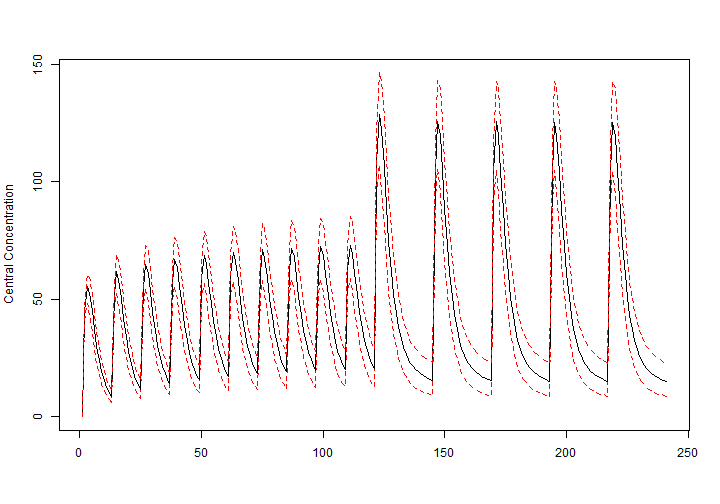
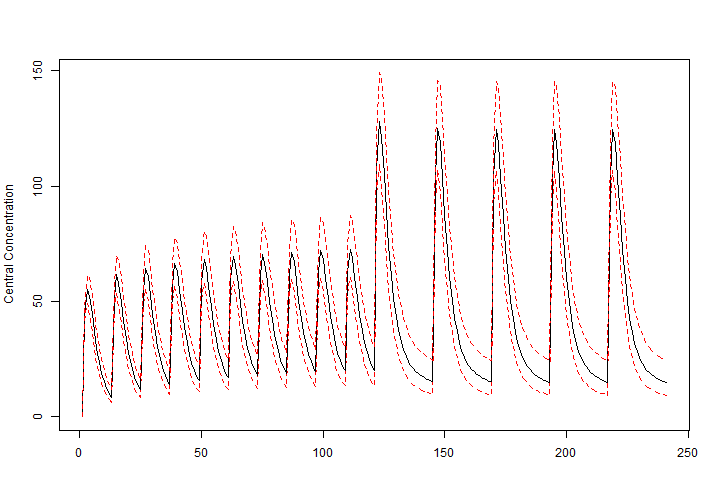
Functional inits

diff --git a/src/ode.h b/src/ode.h
@@ -1,2 +1,2 @@
-#define __HD_ODE__ "#include <R.h>\n#include <Rinternals.h>\n#include <Rmath.h>\n#include <R_ext/Rdynload.h>\n#define JAC_Rprintf Rprintf\n#define JAC0_Rprintf if (_jac_counter_val() == 0) Rprintf\n#define ODE_Rprintf Rprintf\n#define ODE0_Rprintf if (_dadt_counter_val() == 0) Rprintf\n#define LHS_Rprintf Rprintf\n#define max(a,b) (((a)>(b))?(a):(b))\n#define min(a,b) (((a)<(b))?(a):(b))\n// Types for par pointers.r\ntypedef void (*RxODE_update_par_ptr)(double t);\ntypedef double (*RxODE_transit3)(double t, double n, double mtt);\ntypedef double (*RxODE_fn) (double x);\ntypedef double (*RxODE_fn2) (double x, double y);\ntypedef double (*RxODE_transit4)(double t, double n, double mtt, double bio);\ntypedef double (*RxODE_vec) (int val);\ntypedef long (*RxODE_cnt) ();\ntypedef void (*RxODE_inc) ();\ntypedef double (*RxODE_val) ();\ntypedef SEXP (*RxODE_ode_solver) (SEXP sexp_theta, SEXP sexp_inits, SEXP sexp_lhs, SEXP sexp_time, SEXP sexp_evid,SEXP sexp_dose, SEXP sexp_pcov, SEXP sexp_cov, SEXP sexp_locf, SEXP sexp_atol, SEXP sexp_rtol, SEXP sexp_hmin, SEXP sexp_hmax, SEXP sexp_h0, SEXP sexp_mxordn, SEXP sexp_mxords, SEXP sexp_mx,SEXP sexp_stiff, SEXP sexp_transit_abs, SEXP sexp_object, SEXP sexp_extra_args);\ntypedef void (*RxODE_assign_fn_pointers)(void (*fun_dydt)(unsigned int, double, double *, double *),void (*fun_calc_lhs)(double, double *, double *),void (*fun_calc_jac)(unsigned int, double, double *, double *, unsigned int),int fun_jt,int fun_mf, int fun_debug);\n\ntypedef void (*RxODE_ode_solver_old_c)(int *neq,double *theta,double *time,int *evid,int *ntime,double *inits,double *dose,double *ret,double *atol,double *rtol,int *stiff,int *transit_abs,int *nlhs,double *lhs,int *rc);\ntypedef void (*RxODE_ode_solver_0_6_c)(int *neq,double *theta,double *time,int *evid,int *ntime,double *inits,double *dose,double *ret,double *atol,double *rtol,int *stiff,int *transit_abs,int *nlhs,double *lhs,int *rc,double hmin, double hmax,double h0,int mxordn,int mxords,int mxstep);\n// Give par pointers\nRxODE_vec _par_ptr, _InfusionRate;\nRxODE_update_par_ptr _update_par_ptr;\nRxODE_cnt _dadt_counter_val, _jac_counter_val;\nRxODE_inc _dadt_counter_inc, _jac_counter_inc;\nRxODE_val podo, tlast;\nRxODE_transit4 _transit4;\nRxODE_transit3 _transit3;\nRxODE_fn _safe_log, _safe_zero, factorial, _as_zero;\nRxODE_assign_fn_pointers _assign_fn_pointers;\nRxODE_ode_solver_old_c _old_c;\nRxODE_ode_solver_0_6_c _c_0_6;\n\n"
-#define __HD_SOLVE__ "void __ODE_SOLVER__(\n                    int *neq,\n                    double *theta,      //order:\n                    double *time,\n                    int *evid,\n                    int *ntime,\n                    double *inits,\n                    double *dose,\n                    double *ret,\n                    double *atol,\n                    double *rtol,\n                    int *stiff,\n                    int *transit_abs,\n                    int *nlhs,\n                    double *lhs,\n                    int *rc\n                    ){\n  // Backward compatible ode solver for 0.5* C interface\n  __ODE_SOLVER_PTR__();\n  _old_c(neq, theta, time, evid, ntime, inits, dose, ret, atol, rtol, stiff, transit_abs, nlhs, lhs, rc);\n}\n\nvoid __ODE_SOLVER_0_6__(int *neq,\n                        double *theta,  //order:\n                        double *time,\n                        int *evid,\n                        int *ntime,\n                        double *inits,\n                        double *dose,\n                        double *ret,\n                        double *atol,\n                        double *rtol,\n                        int *stiff,\n                        int *transit_abs,\n                        int *nlhs,\n                        double *lhs,\n                        int *rc,\n                        double hmin,\n                        double hmax,\n                        double h0,\n                        int mxordn,\n                        int mxords,\n                        int mxstep) {\n  // Backward compatible ode solver for 0.5* C interface\n  __ODE_SOLVER_PTR__();\n  _c_0_6(neq, theta, time, evid, ntime, inits, dose, ret, atol, rtol, stiff, transit_abs, nlhs, lhs, rc,\n	hmin, hmax, h0, mxordn, mxords, mxstep);\n}\n\nextern void __ODE_SOLVER_PTR__  (){\n  _assign_fn_pointers(__DYDT__ , __CALC_LHS__ , __CALC_JAC__, __JT__ , __MF__,\n#ifdef __DEBUG__\n                      1\n#else\n                      0\n#endif\n                      );\n}\n\nextern SEXP __ODE_SOLVER_SEXP__ (// Parameters\n                                 SEXP sexp_theta,\n                                 SEXP sexp_inits,\n                                 SEXP sexp_lhs,\n				 // Events\n				 SEXP sexp_time,\n				 SEXP sexp_evid,\n				 SEXP sexp_dose,\n				 // Covariates\n				 SEXP sexp_pcov,\n				 SEXP sexp_cov,\n				 SEXP sexp_locf,\n				 // Solver Options\n				 SEXP sexp_atol,\n				 SEXP sexp_rtol,\n				 SEXP sexp_hmin,\n				 SEXP sexp_hmax,\n				 SEXP sexp_h0,\n				 SEXP sexp_mxordn,\n				 SEXP sexp_mxords,\n				 SEXP sexp_mx,\n				 SEXP sexp_stiff,\n				 SEXP sexp_transit_abs,\n				 // Object Creation\n				 SEXP sexp_object,\n				 SEXP sexp_extra_args){\n  RxODE_ode_solver ode_solver=(RxODE_ode_solver) R_GetCCallable(\"RxODE\",\"RxODE_ode_solver\");\n  __ODE_SOLVER_PTR__();\n  ode_solver(sexp_theta,sexp_inits,sexp_lhs,sexp_time,sexp_evid,sexp_dose,sexp_pcov,sexp_cov,sexp_locf,sexp_atol,\n	     sexp_rtol,sexp_hmin,sexp_hmax,sexp_h0,sexp_mxordn,sexp_mxords,sexp_mx,sexp_stiff,sexp_transit_abs,\n	     sexp_object,sexp_extra_args);\n}\n\n//Initilize the dll to match RxODE's calls\nvoid __R_INIT__ (DllInfo *info){\n  // Get the RxODE calling interfaces\n  _InfusionRate   = (RxODE_vec) R_GetCCallable(\"RxODE\",\"RxODE_InfusionRate\");\n  _update_par_ptr = (RxODE_update_par_ptr) R_GetCCallable(\"RxODE\",\"RxODE_update_par_ptr\");\n  _par_ptr = (RxODE_vec) R_GetCCallable(\"RxODE\",\"RxODE_par_ptr\");\n  _dadt_counter_val = (RxODE_cnt) R_GetCCallable(\"RxODE\",\"RxODE_dadt_counter_val\");\n  _jac_counter_val  = (RxODE_cnt) R_GetCCallable(\"RxODE\",\"RxODE_jac_counter_val\");\n  _dadt_counter_inc = (RxODE_inc) R_GetCCallable(\"RxODE\",\"RxODE_dadt_counter_inc\");\n  _jac_counter_inc  = (RxODE_inc) R_GetCCallable(\"RxODE\",\"RxODE_jac_counter_inc\");\n  podo  = (RxODE_val) R_GetCCallable(\"RxODE\",\"RxODE_podo\");\n  tlast = (RxODE_val) R_GetCCallable(\"RxODE\",\"RxODE_tlast\");\n  factorial=(RxODE_fn) R_GetCCallable(\"RxODE\",\"RxODE_factorial\");\n  _transit3 = (RxODE_transit3) R_GetCCallable(\"RxODE\",\"RxODE_transit3\");\n  _transit4 = (RxODE_transit4) R_GetCCallable(\"RxODE\",\"RxODE_transit4\");\n  _safe_log =(RxODE_fn) R_GetCCallable(\"RxODE\",\"RxODE_safe_log\");\n  _safe_zero =(RxODE_fn) R_GetCCallable(\"RxODE\",\"RxODE_safe_zero\");\n  _as_zero =(RxODE_fn) R_GetCCallable(\"RxODE\",\"RxODE_as_zero\");\n  _assign_fn_pointers=(RxODE_assign_fn_pointers) R_GetCCallable(\"RxODE\",\"RxODE_assign_fn_pointers\");\n  _old_c = (RxODE_ode_solver_old_c) R_GetCCallable(\"RxODE\",\"RxODE_ode_solver_old_c\");\n  _c_0_6 = (RxODE_ode_solver_0_6_c)R_GetCCallable(\"RxODE\",\"RxODE_ode_solver_0_6_c\");\n  // Register the outside functions\n  R_RegisterCCallable(__LIB_STR__,__ODE_SOLVER_STR__,       (DL_FUNC) __ODE_SOLVER__);\n  R_RegisterCCallable(__LIB_STR__,__ODE_SOLVER_SEXP_STR__,  (DL_FUNC) __ODE_SOLVER_SEXP__);\n  R_RegisterCCallable(__LIB_STR__,__ODE_SOLVER_0_6_STR__,   (DL_FUNC) __ODE_SOLVER_0_6__);\n  R_RegisterCCallable(__LIB_STR__,__ODE_SOLVER_PTR_STR__,   (DL_FUNC) __ODE_SOLVER_PTR__);\n  // Register the function pointers so if someone directly calls the\n  // ode solvers directly, they use the last loaded RxODE model.\n  __ODE_SOLVER_PTR__();\n}\n"
+#define __HD_ODE__ "#include <R.h>\n#include <Rinternals.h>\n#include <Rmath.h>\n#include <R_ext/Rdynload.h>\n#define JAC_Rprintf Rprintf\n#define JAC0_Rprintf if (_jac_counter_val() == 0) Rprintf\n#define ODE_Rprintf Rprintf\n#define ODE0_Rprintf if (_dadt_counter_val() == 0) Rprintf\n#define LHS_Rprintf Rprintf\n#define max(a,b) (((a)>(b))?(a):(b))\n#define min(a,b) (((a)<(b))?(a):(b))\n// Types for par pointers.r\ntypedef void (*RxODE_update_par_ptr)(double t);\ntypedef double (*RxODE_transit3)(double t, double n, double mtt);\ntypedef double (*RxODE_fn) (double x);\ntypedef double (*RxODE_fn2) (double x, double y);\ntypedef double (*RxODE_transit4)(double t, double n, double mtt, double bio);\ntypedef double (*RxODE_vec) (int val);\ntypedef long (*RxODE_cnt) ();\ntypedef void (*RxODE_inc) ();\ntypedef double (*RxODE_val) ();\ntypedef SEXP (*RxODE_ode_solver) (SEXP sexp_theta, SEXP sexp_inits, SEXP sexp_lhs, SEXP sexp_time, SEXP sexp_evid,SEXP sexp_dose, SEXP sexp_pcov, SEXP sexp_cov, SEXP sexp_locf, SEXP sexp_atol, SEXP sexp_rtol, SEXP sexp_hmin, SEXP sexp_hmax, SEXP sexp_h0, SEXP sexp_mxordn, SEXP sexp_mxords, SEXP sexp_mx,SEXP sexp_stiff, SEXP sexp_transit_abs, SEXP sexp_object, SEXP sexp_extra_args);\ntypedef void (*RxODE_assign_fn_pointers)(void (*fun_dydt)(unsigned int, double, double *, double *),void (*fun_calc_lhs)(double, double *, double *),void (*fun_calc_jac)(unsigned int, double, double *, double *, unsigned int),void (*fun_update_inis)(SEXP _ini_sexp),int fun_jt,int fun_mf, int fun_debug);\n\ntypedef void (*RxODE_ode_solver_old_c)(int *neq,double *theta,double *time,int *evid,int *ntime,double *inits,double *dose,double *ret,double *atol,double *rtol,int *stiff,int *transit_abs,int *nlhs,double *lhs,int *rc);\ntypedef void (*RxODE_ode_solver_0_6_c)(int *neq,double *theta,double *time,int *evid,int *ntime,double *inits,double *dose,double *ret,double *atol,double *rtol,int *stiff,int *transit_abs,int *nlhs,double *lhs,int *rc,double hmin, double hmax,double h0,int mxordn,int mxords,int mxstep);\n// Give par pointers\nRxODE_vec _par_ptr, _InfusionRate;\nRxODE_update_par_ptr _update_par_ptr;\nRxODE_cnt _dadt_counter_val, _jac_counter_val;\nRxODE_inc _dadt_counter_inc, _jac_counter_inc;\nRxODE_val podo, tlast;\nRxODE_transit4 _transit4;\nRxODE_transit3 _transit3;\nRxODE_fn _safe_log, _safe_zero, factorial, _as_zero;\nRxODE_assign_fn_pointers _assign_fn_pointers;\nRxODE_ode_solver_old_c _old_c;\nRxODE_ode_solver_0_6_c _c_0_6;\n\n"
+#define __HD_SOLVE__ "void __ODE_SOLVER__(\n                    int *neq,\n                    double *theta,      //order:\n                    double *time,\n                    int *evid,\n                    int *ntime,\n                    double *inits,\n                    double *dose,\n                    double *ret,\n                    double *atol,\n                    double *rtol,\n                    int *stiff,\n                    int *transit_abs,\n                    int *nlhs,\n                    double *lhs,\n                    int *rc\n                    ){\n  // Backward compatible ode solver for 0.5* C interface\n  __ODE_SOLVER_PTR__();\n  _old_c(neq, theta, time, evid, ntime, inits, dose, ret, atol, rtol, stiff, transit_abs, nlhs, lhs, rc);\n}\n\nvoid __ODE_SOLVER_0_6__(int *neq,\n                        double *theta,  //order:\n                        double *time,\n                        int *evid,\n                        int *ntime,\n                        double *inits,\n                        double *dose,\n                        double *ret,\n                        double *atol,\n                        double *rtol,\n                        int *stiff,\n                        int *transit_abs,\n                        int *nlhs,\n                        double *lhs,\n                        int *rc,\n                        double hmin,\n                        double hmax,\n                        double h0,\n                        int mxordn,\n                        int mxords,\n                        int mxstep) {\n  // Backward compatible ode solver for 0.5* C interface\n  __ODE_SOLVER_PTR__();\n  _c_0_6(neq, theta, time, evid, ntime, inits, dose, ret, atol, rtol, stiff, transit_abs, nlhs, lhs, rc,\n	hmin, hmax, h0, mxordn, mxords, mxstep);\n}\n\nextern void __ODE_SOLVER_PTR__  (){\n  _assign_fn_pointers(__DYDT__ , __CALC_LHS__ , __CALC_JAC__, __INIS__, __JT__ , __MF__,\n#ifdef __DEBUG__\n                      1\n#else\n                      0\n#endif\n                      );\n}\n\nextern SEXP __ODE_SOLVER_SEXP__ (// Parameters\n                                 SEXP sexp_theta,\n                                 SEXP sexp_inits,\n                                 SEXP sexp_lhs,\n				 // Events\n				 SEXP sexp_time,\n				 SEXP sexp_evid,\n				 SEXP sexp_dose,\n				 // Covariates\n				 SEXP sexp_pcov,\n				 SEXP sexp_cov,\n				 SEXP sexp_locf,\n				 // Solver Options\n				 SEXP sexp_atol,\n				 SEXP sexp_rtol,\n				 SEXP sexp_hmin,\n				 SEXP sexp_hmax,\n				 SEXP sexp_h0,\n				 SEXP sexp_mxordn,\n				 SEXP sexp_mxords,\n				 SEXP sexp_mx,\n				 SEXP sexp_stiff,\n				 SEXP sexp_transit_abs,\n				 // Object Creation\n				 SEXP sexp_object,\n				 SEXP sexp_extra_args){\n  RxODE_ode_solver ode_solver=(RxODE_ode_solver) R_GetCCallable(\"RxODE\",\"RxODE_ode_solver\");\n  __ODE_SOLVER_PTR__();\n  ode_solver(sexp_theta,sexp_inits,sexp_lhs,sexp_time,sexp_evid,sexp_dose,sexp_pcov,sexp_cov,sexp_locf,sexp_atol,\n	     sexp_rtol,sexp_hmin,sexp_hmax,sexp_h0,sexp_mxordn,sexp_mxords,sexp_mx,sexp_stiff,sexp_transit_abs,\n	     sexp_object,sexp_extra_args);\n}\n\n//Initilize the dll to match RxODE's calls\nvoid __R_INIT__ (DllInfo *info){\n  // Get the RxODE calling interfaces\n  _InfusionRate   = (RxODE_vec) R_GetCCallable(\"RxODE\",\"RxODE_InfusionRate\");\n  _update_par_ptr = (RxODE_update_par_ptr) R_GetCCallable(\"RxODE\",\"RxODE_update_par_ptr\");\n  _par_ptr = (RxODE_vec) R_GetCCallable(\"RxODE\",\"RxODE_par_ptr\");\n  _dadt_counter_val = (RxODE_cnt) R_GetCCallable(\"RxODE\",\"RxODE_dadt_counter_val\");\n  _jac_counter_val  = (RxODE_cnt) R_GetCCallable(\"RxODE\",\"RxODE_jac_counter_val\");\n  _dadt_counter_inc = (RxODE_inc) R_GetCCallable(\"RxODE\",\"RxODE_dadt_counter_inc\");\n  _jac_counter_inc  = (RxODE_inc) R_GetCCallable(\"RxODE\",\"RxODE_jac_counter_inc\");\n  podo  = (RxODE_val) R_GetCCallable(\"RxODE\",\"RxODE_podo\");\n  tlast = (RxODE_val) R_GetCCallable(\"RxODE\",\"RxODE_tlast\");\n  factorial=(RxODE_fn) R_GetCCallable(\"RxODE\",\"RxODE_factorial\");\n  _transit3 = (RxODE_transit3) R_GetCCallable(\"RxODE\",\"RxODE_transit3\");\n  _transit4 = (RxODE_transit4) R_GetCCallable(\"RxODE\",\"RxODE_transit4\");\n  _safe_log =(RxODE_fn) R_GetCCallable(\"RxODE\",\"RxODE_safe_log\");\n  _safe_zero =(RxODE_fn) R_GetCCallable(\"RxODE\",\"RxODE_safe_zero\");\n  _as_zero =(RxODE_fn) R_GetCCallable(\"RxODE\",\"RxODE_as_zero\");\n  _assign_fn_pointers=(RxODE_assign_fn_pointers) R_GetCCallable(\"RxODE\",\"RxODE_assign_fn_pointers\");\n  _old_c = (RxODE_ode_solver_old_c) R_GetCCallable(\"RxODE\",\"RxODE_ode_solver_old_c\");\n  _c_0_6 = (RxODE_ode_solver_0_6_c)R_GetCCallable(\"RxODE\",\"RxODE_ode_solver_0_6_c\");\n  // Register the outside functions\n  R_RegisterCCallable(__LIB_STR__,__ODE_SOLVER_STR__,       (DL_FUNC) __ODE_SOLVER__);\n  R_RegisterCCallable(__LIB_STR__,__ODE_SOLVER_SEXP_STR__,  (DL_FUNC) __ODE_SOLVER_SEXP__);\n  R_RegisterCCallable(__LIB_STR__,__ODE_SOLVER_0_6_STR__,   (DL_FUNC) __ODE_SOLVER_0_6__);\n  R_RegisterCCallable(__LIB_STR__,__ODE_SOLVER_PTR_STR__,   (DL_FUNC) __ODE_SOLVER_PTR__);\n  // Register the function pointers so if someone directly calls the\n  // ode solvers directly, they use the last loaded RxODE model.\n  __ODE_SOLVER_PTR__();\n}\n"

diff --git a/src/tran.c b/src/tran.c
@@ -215,6 +215,7 @@ typedef struct symtab {
   int ini[MXSYM];        /* initial variable assignment =2 if there are two assignments */
   int ini0[MXSYM];        /* state initial variable assignment =2 if there are two assignments */
   int di[MXDER];        /* ith of state vars */
+  int fdi[MXDER];        /* Functional initilization of state variable */
   int nv;                       /* nbr of symbols */
   int ix;                       /* ith of curr symbol */
   int id;                       /* ith of curr symbol */
@@ -224,6 +225,7 @@ typedef struct symtab {
   int pos_de;
   int ini_i; // #ini
   int statei; // # states
+  int fdn; // # conditional states
   int sensi;
   int li; // # lhs
   int pi; // # param
@@ -1034,7 +1036,7 @@ void prnt_vars(int scenario, FILE *outpt, int lhs, const char *pre_str, const ch
 }
 
 void print_aux_info(FILE *outpt, char *model, char *orig_model){
-  int i, j, k, islhs,pi = 0,li = 0, o=0, o2=0, statei = 0, ini_i = 0, sensi=0,
+  int i, j, k, islhs,pi = 0,li = 0, o=0, o2=0, statei = 0, ini_i = 0, sensi=0, fdi=0,
     in_str=0;
   char *s2;
   char sLine[MXLEN+1];
@@ -1071,6 +1073,10 @@ void print_aux_info(FILE *outpt, char *model, char *orig_model){
     } else {
       sprintf(s_aux_info+o, "\tSET_STRING_ELT(state,%d,mkChar(\"%s\"));\n", statei++, buf);
     }
+    if (tb.fdi[i]){
+      o = strlen(s_aux_info);
+      sprintf(s_aux_info+o, "\tSET_STRING_ELT(fn_ini,%d,mkChar(\"%s\"));\n", fdi++, buf);
+    }
     o = strlen(s_aux_info);
   }
   for (i=0; i<tb.ndfdy; i++) {                     /* name state vars */
@@ -1094,12 +1100,13 @@ void print_aux_info(FILE *outpt, char *model, char *orig_model){
     o = strlen(s_aux_info);
   }
   fprintf(outpt,"extern SEXP %smodel_vars(){\n",model_prefix);
-  fprintf(outpt,"\tSEXP lst    = PROTECT(allocVector(VECSXP, 10));\n");
-  fprintf(outpt,"\tSEXP names  = PROTECT(allocVector(STRSXP, 10));\n");
+  fprintf(outpt,"\tSEXP lst    = PROTECT(allocVector(VECSXP, 11));\n");
+  fprintf(outpt,"\tSEXP names  = PROTECT(allocVector(STRSXP, 11));\n");
   fprintf(outpt,"\tSEXP params = PROTECT(allocVector(STRSXP, %d));\n",pi);
   fprintf(outpt,"\tSEXP lhs    = PROTECT(allocVector(STRSXP, %d));\n",li);
   fprintf(outpt,"\tSEXP state  = PROTECT(allocVector(STRSXP, %d));\n",statei);
   fprintf(outpt,"\tSEXP sens   = PROTECT(allocVector(STRSXP, %d));\n",sensi);
+  fprintf(outpt,"\tSEXP fn_ini = PROTECT(allocVector(STRSXP, %d));\n",fdi);
   fprintf(outpt,"\tSEXP dfdy   = PROTECT(allocVector(STRSXP, %d));\n",tb.ndfdy);
   fprintf(outpt,"\tSEXP tran   = PROTECT(allocVector(STRSXP, 12));\n");
   fprintf(outpt,"\tSEXP trann  = PROTECT(allocVector(STRSXP, 12));\n");
@@ -1297,6 +1304,9 @@ void print_aux_info(FILE *outpt, char *model, char *orig_model){
   fprintf(outpt,"\tSET_STRING_ELT(names,9,mkChar(\"sens\"));\n");
   fprintf(outpt,"\tSET_VECTOR_ELT(lst,  9,sens);\n");
   
+  fprintf(outpt,"\tSET_STRING_ELT(names,10,mkChar(\"fn.ini\"));\n");
+  fprintf(outpt,"\tSET_VECTOR_ELT(lst,  10,fn_ini);\n");
+  
   // md5 values
   fprintf(outpt,"\tSET_STRING_ELT(mmd5n,0,mkChar(\"file_md5\"));\n");
   fprintf(outpt,"\tSET_STRING_ELT(mmd5,0,mkChar(\"%s\"));\n",md5);
@@ -1340,8 +1350,8 @@ void print_aux_info(FILE *outpt, char *model, char *orig_model){
   fprintf(outpt,"\tSET_STRING_ELT(trann,10,mkChar(\"ode_solver_ptr\"));\n");
   fprintf(outpt,"\tSET_STRING_ELT(tran, 10,mkChar(\"%sode_solver_ptr\"));\n",model_prefix);
 
-  fprintf(outpt,"\tSET_STRING_ELT(trann,11,mkChar(\"ode_solver_focei_outer\"));\n");
-  fprintf(outpt,"\tSET_STRING_ELT(tran, 11,mkChar(\"%sode_solver_focei_outer\"));\n",model_prefix);
+  fprintf(outpt,"\tSET_STRING_ELT(trann,11,mkChar(\"inis\"));\n");
+  fprintf(outpt,"\tSET_STRING_ELT(tran, 11,mkChar(\"%sinis\"));\n",model_prefix);
   
   fprintf(outpt,"\tsetAttrib(tran, R_NamesSymbol, trann);\n");
   fprintf(outpt,"\tsetAttrib(mmd5, R_NamesSymbol, mmd5n);\n");
@@ -1349,7 +1359,7 @@ void print_aux_info(FILE *outpt, char *model, char *orig_model){
   fprintf(outpt,"\tsetAttrib(ini, R_NamesSymbol, inin);\n");
   fprintf(outpt,"\tsetAttrib(lst, R_NamesSymbol, names);\n");
 
-  fprintf(outpt,"\tUNPROTECT(15);\n");
+  fprintf(outpt,"\tUNPROTECT(16);\n");
   
   fprintf(outpt,"\treturn lst;\n");
   fprintf(outpt,"}\n");
@@ -1457,11 +1467,14 @@ void codegen(FILE *outpt, int show_ode) {
 	    retieve_var(tb.di[i], buf);
 	    sprintf(to,"(__0f__)%s=",buf);
 	    if (strstr(sLine,to)){
-	      fprintf(outpt, "\tif (ISNA(%s)){\n\t\t%s\t}\n",buf,sLine+8);
-	      continue;
+	      if (!tb.fdi[i]){
+		tb.fdi[i] = 1;
+		tb.fdn++;
+	      }
+	      fprintf(outpt, "\t//if (ISNA(%s)){ // Always apply; Othersiwse, Since this updates vector, it may cause this to only be updated once.\n\t\t%s\t//}\n",buf,sLine+8);
 	    }
 	  }
-	  error("%s(0) does not name sense because '%s' is not a state variable.",buf, buf);
+	  continue;
 	} else {
 	  continue;
 	}
@@ -1693,6 +1706,7 @@ void reset (){
   memset(tb.lh,		0, MXSYM);
   memset(tb.ini,	0, MXSYM);
   memset(tb.di,		0, MXDER);
+  memset(tb.fdi,        0, MXDER);
   memset(tb.dy,		0, MXSYM);
   memset(tb.sdfdy,	0, MXSYM);
   // Reset integers
@@ -1712,6 +1726,7 @@ void reset (){
   tb.ndfdy	= 0;
   tb.maxtheta   = 0;
   tb.maxeta     = 0;
+  tb.fdn        = 0;
   // reset globals
   found_print = 0;
   found_jac = 0;
@@ -1820,7 +1835,7 @@ SEXP trans(SEXP orig_file, SEXP parse_file, SEXP c_file, SEXP extra_c, SEXP pref
   char snum[512];
   char *s2;
   char sLine[MXLEN+1];
-  int i, j, islhs, pi=0, li=0, ini_i = 0,o2=0,k=0;
+  int i, j, islhs, pi=0, li=0, ini_i = 0,o2=0,k=0, l=0;
   double d;
   reset(); 
   rx_syntax_assign = R_get_option("RxODE.syntax.assign",1);
@@ -1886,14 +1901,15 @@ SEXP trans(SEXP orig_file, SEXP parse_file, SEXP c_file, SEXP extra_c, SEXP pref
     error("Parse model 3 must be specified.");
   }
   trans_internal(orig, in, out);
-  SEXP lst   = PROTECT(allocVector(VECSXP, 9));
-  SEXP names = PROTECT(allocVector(STRSXP, 9));
+  SEXP lst   = PROTECT(allocVector(VECSXP, 10));
+  SEXP names = PROTECT(allocVector(STRSXP, 10));
   
   SEXP tran  = PROTECT(allocVector(STRSXP, 12));
   SEXP trann = PROTECT(allocVector(STRSXP, 12));
   
-  SEXP state = PROTECT(allocVector(STRSXP,tb.statei));
-  SEXP sens  = PROTECT(allocVector(STRSXP,tb.sensi));
+  SEXP state  = PROTECT(allocVector(STRSXP,tb.statei));
+  SEXP sens   = PROTECT(allocVector(STRSXP,tb.sensi));
+  SEXP fn_ini = PROTECT(allocVector(STRSXP, tb.fdn));
 
   SEXP dfdy = PROTECT(allocVector(STRSXP,tb.ndfdy));
   
@@ -1907,7 +1923,7 @@ SEXP trans(SEXP orig_file, SEXP parse_file, SEXP c_file, SEXP extra_c, SEXP pref
   SEXP model  = PROTECT(allocVector(STRSXP,4));
   SEXP modeln = PROTECT(allocVector(STRSXP,4));
 
-  k=0;j=0;
+  k=0;j=0;l=0;
   for (i=0; i<tb.nd; i++) {                     /* name state vars */
     retieve_var(tb.di[i], buf);
     if (strstr(buf,"rx__sens_")){
@@ -1915,6 +1931,9 @@ SEXP trans(SEXP orig_file, SEXP parse_file, SEXP c_file, SEXP extra_c, SEXP pref
       SET_STRING_ELT(state,k++,mkChar(buf));
     } else {
       SET_STRING_ELT(state,k++,mkChar(buf));
+    }
+    if (tb.fdi[i]){
+      SET_STRING_ELT(state,l++,mkChar(buf));
     }
   }
   for (i=0; i<tb.ndfdy; i++) {                     /* name state vars */
@@ -1984,6 +2003,9 @@ SEXP trans(SEXP orig_file, SEXP parse_file, SEXP c_file, SEXP extra_c, SEXP pref
   SET_STRING_ELT(names,8,mkChar("sens"));
   SET_VECTOR_ELT(lst,  8,sens);
   
+  SET_STRING_ELT(names,8,mkChar("fn.ini"));
+  SET_VECTOR_ELT(lst,  8,fn_ini);
+  
   SET_STRING_ELT(trann,0,mkChar("jac"));
   if (found_jac == 1){
     SET_STRING_ELT(tran,0,mkChar("fulluser")); // Full User Matrix
@@ -2029,8 +2051,8 @@ SEXP trans(SEXP orig_file, SEXP parse_file, SEXP c_file, SEXP extra_c, SEXP pref
   SET_STRING_ELT(trann,10,mkChar("ode_solver_ptr"));
   SET_STRING_ELT(tran, 10,mkChar(buf));
 
-  sprintf(buf,"%sode_solver_focei_outer",model_prefix);
-  SET_STRING_ELT(trann,11,mkChar("ode_solver_focei_outer"));
+  sprintf(buf,"%sinis",model_prefix);
+  SET_STRING_ELT(trann,11,mkChar("inis"));
   SET_STRING_ELT(tran, 11,mkChar(buf));
   
   fpIO2 = fopen(out2, "r");
@@ -2152,7 +2174,7 @@ SEXP trans(SEXP orig_file, SEXP parse_file, SEXP c_file, SEXP extra_c, SEXP pref
   setAttrib(tran,  R_NamesSymbol, trann);
   setAttrib(lst,   R_NamesSymbol, names);
   setAttrib(model, R_NamesSymbol, modeln);
-  UNPROTECT(13);
+  UNPROTECT(14);
   remove(out3);
   if (rx_syntax_error){
     error("Syntax Errors (see above)");

diff --git a/inst/ode.c b/inst/ode.c
@@ -20,7 +20,7 @@ typedef long (*RxODE_cnt) ();
 typedef void (*RxODE_inc) ();
 typedef double (*RxODE_val) ();
 typedef SEXP (*RxODE_ode_solver) (SEXP sexp_theta, SEXP sexp_inits, SEXP sexp_lhs, SEXP sexp_time, SEXP sexp_evid,SEXP sexp_dose, SEXP sexp_pcov, SEXP sexp_cov, SEXP sexp_locf, SEXP sexp_atol, SEXP sexp_rtol, SEXP sexp_hmin, SEXP sexp_hmax, SEXP sexp_h0, SEXP sexp_mxordn, SEXP sexp_mxords, SEXP sexp_mx,SEXP sexp_stiff, SEXP sexp_transit_abs, SEXP sexp_object, SEXP sexp_extra_args);
-typedef void (*RxODE_assign_fn_pointers)(void (*fun_dydt)(unsigned int, double, double *, double *),void (*fun_calc_lhs)(double, double *, double *),void (*fun_calc_jac)(unsigned int, double, double *, double *, unsigned int),int fun_jt,int fun_mf, int fun_debug);
+typedef void (*RxODE_assign_fn_pointers)(void (*fun_dydt)(unsigned int, double, double *, double *),void (*fun_calc_lhs)(double, double *, double *),void (*fun_calc_jac)(unsigned int, double, double *, double *, unsigned int),void (*fun_update_inis)(SEXP _ini_sexp),int fun_jt,int fun_mf, int fun_debug);
 
 typedef void (*RxODE_ode_solver_old_c)(int *neq,double *theta,double *time,int *evid,int *ntime,double *inits,double *dose,double *ret,double *atol,double *rtol,int *stiff,int *transit_abs,int *nlhs,double *lhs,int *rc);
 typedef void (*RxODE_ode_solver_0_6_c)(int *neq,double *theta,double *time,int *evid,int *ntime,double *inits,double *dose,double *ret,double *atol,double *rtol,int *stiff,int *transit_abs,int *nlhs,double *lhs,int *rc,double hmin, double hmax,double h0,int mxordn,int mxords,int mxstep);
@@ -87,7 +87,7 @@ void __ODE_SOLVER_0_6__(int *neq,
 }
 
 extern void __ODE_SOLVER_PTR__  (){
-  _assign_fn_pointers(__DYDT__ , __CALC_LHS__ , __CALC_JAC__, __JT__ , __MF__,
+  _assign_fn_pointers(__DYDT__ , __CALC_LHS__ , __CALC_JAC__, __INIS__, __JT__ , __MF__,
 #ifdef __DEBUG__
                       1
 #else

diff --git a/src/call_dvode.c b/src/call_dvode.c
@@ -47,6 +47,7 @@ FILE *fp;
 void (*dydt)(unsigned int neq, double t, double *A, double *DADT);
 void (*calc_jac)(unsigned int neq, double t, double *A, double *JAC, unsigned int __NROWPD__);
 void (*calc_lhs)(double t, double *A, double *lhs);
+void (*update_inis)(SEXP _ini_sexp);
 
 void rxInner(SEXP rho);
 
@@ -532,6 +533,7 @@ void RxODE_ode_solver_0_6_c(int *neq,
 void RxODE_assign_fn_pointers(void (*fun_dydt)(unsigned int, double, double *, double *),
                               void (*fun_calc_lhs)(double, double *, double *),
                               void (*fun_calc_jac)(unsigned int, double, double *, double *, unsigned int),
+			      void (*fun_update_inis)(SEXP _ini_sexp),
                               int fun_jt,
                               int fun_mf,
                               int fun_debug){
@@ -539,6 +541,7 @@ void RxODE_assign_fn_pointers(void (*fun_dydt)(unsigned int, double, double *, d
   dydt     = fun_dydt;
   calc_jac = fun_calc_jac;
   calc_lhs = fun_calc_lhs;
+  update_inis = fun_update_inis;
   // Assign solver options
   global_jt     = fun_jt;
   global_mf     = fun_mf;
@@ -596,6 +599,7 @@ void RxODE_ode_setup(SEXP sexp_inits,
   rx_aprox_M.kind = !is_locf;
   nlhs          = length(sexp_lhs);
   neq           = length(sexp_inits);
+  update_inis(sexp_inits); // Update any run-time initial conditions.
 }
 
 void RxODE_ode_solve_env(SEXP sexp_rho){

diff --git a/README.md b/README.md
@@ -3,7 +3,7 @@
 [![codecov.io](https://codecov.io/github/mattfidler/RxODE/coverage.svg?branch=master)](https://codecov.io/github/mattfidler/RxODE?branch=master)
 [![CRAN version](http://www.r-pkg.org/badges/version/RxODE)](https://cran.r-project.org/package=RxODE)
 
-
+![plot of chunk compileVignette](figure/compileVignette-1.png)
 
 
 ## RxODE: A tool for performing simulations from Ordinary Differential Equation (ODE) models, with applications for pharmacometrics
@@ -347,12 +347,12 @@ head(theta.all)
 
 ```
 ##         KA       CL   V2    Q  V3 Kin Kout EC50
-## [1,] 0.294 15.96208 40.2 10.5 297   1    1  200
-## [2,] 0.294 16.85185 40.2 10.5 297   1    1  200
-## [3,] 0.294 19.79022 40.2 10.5 297   1    1  200
-## [4,] 0.294 25.64096 40.2 10.5 297   1    1  200
-## [5,] 0.294 19.95302 40.2 10.5 297   1    1  200
-## [6,] 0.294 19.75408 40.2 10.5 297   1    1  200
+## [1,] 0.294 14.47378 40.2 10.5 297   1    1  200
+## [2,] 0.294 19.24972 40.2 10.5 297   1    1  200
+## [3,] 0.294 19.97822 40.2 10.5 297   1    1  200
+## [4,] 0.294 24.65951 40.2 10.5 297   1    1  200
+## [5,] 0.294 17.35324 40.2 10.5 297   1    1  200
+## [6,] 0.294 16.19164 40.2 10.5 297   1    1  200
 ```
 
 Each subproblem can be simulated by using an explicit loop (or the `apply()`
